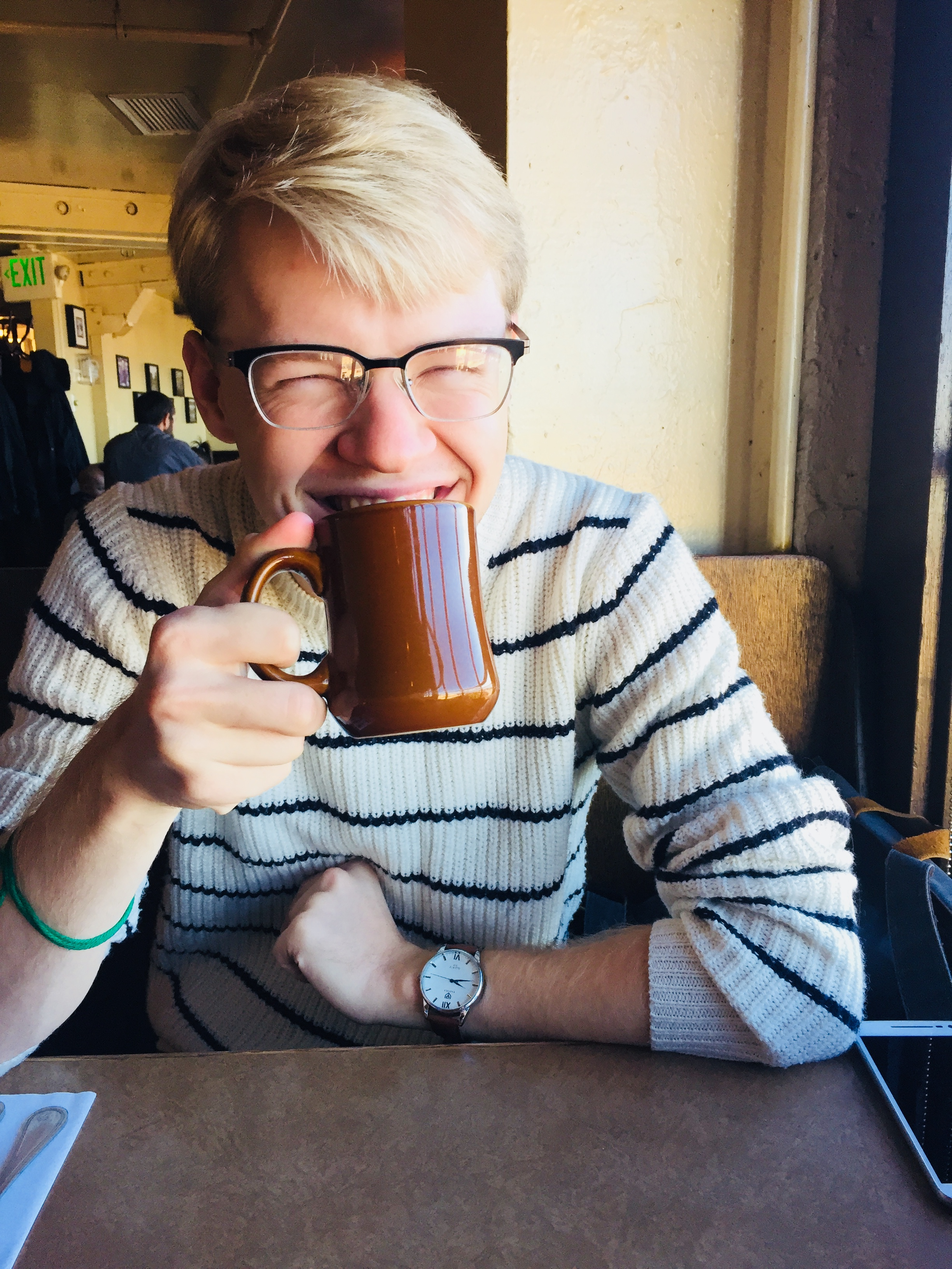
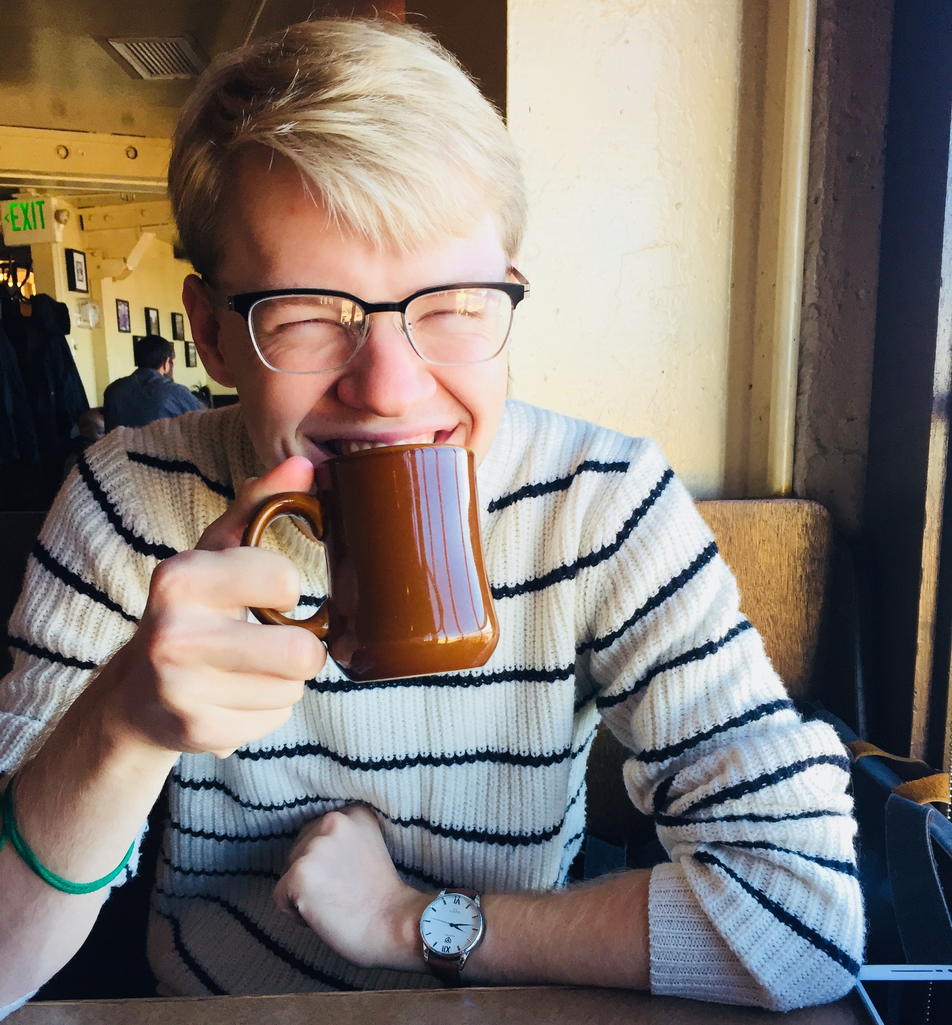
Updated image and image options

diff --git a/index.html b/index.html
@@ -8,8 +8,7 @@
 <body>
 
 <h1>Mike Toomey</h1>
-<img src = "website_image.JPG" alt = "headshot" style="width:500px;height:600px;">
-<p>I'm a student at Washington University in St. Louis studying computer science and biology. Currently, I work at the Center for Genome Sciences and Systems Biology for <a href="http://mblab.wustl.edu/index.html">Dr. Michael Brent</a>, a Professor of Computer Science, Genetics, and Biomedical Engineering at WashU.</p>
+<p><img src = "website_image.JPG" alt = "headshot" style="width:306px; border: #000000 4px outset">	I'm a student at Washington University in St. Louis studying computer science and biology. Currently, I work at the Center for Genome Sciences and Systems Biology for <a href="http://mblab.wustl.edu/index.html">Dr. Michael Brent</a>, a Professor of Computer Science, Genetics, and Biomedical Engineering at WashU.</p>
 
 </body>
 

diff --git a/styles.css b/styles.css
@@ -1,5 +1,5 @@
 body {
-	background-color: lightgray;
+	background-color: white;
 	font-family: Calibri;
 }
 h1 {
@@ -7,8 +7,8 @@ h1 {
 	text-align: center;
 }
 img {
-	max-width: 100%
-	max-height: 100%
+	max-width: 100%;
+	max-height: 100%;
 }
 p {
 	color: dimgray;
